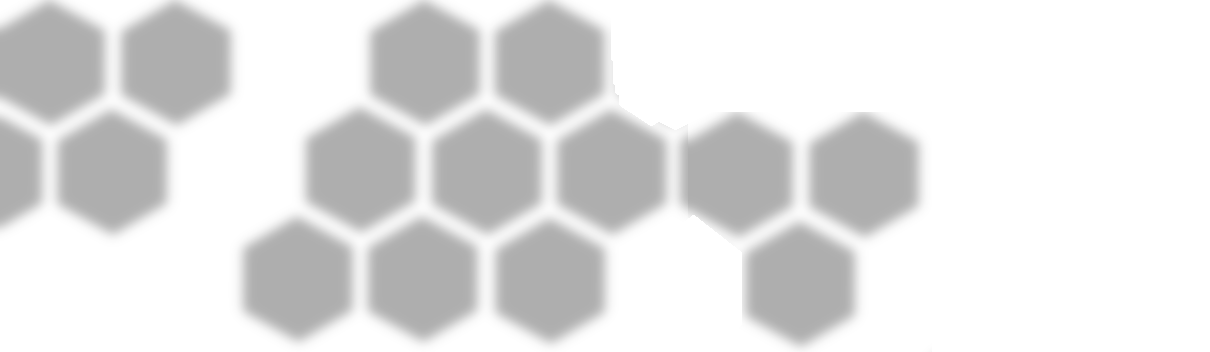
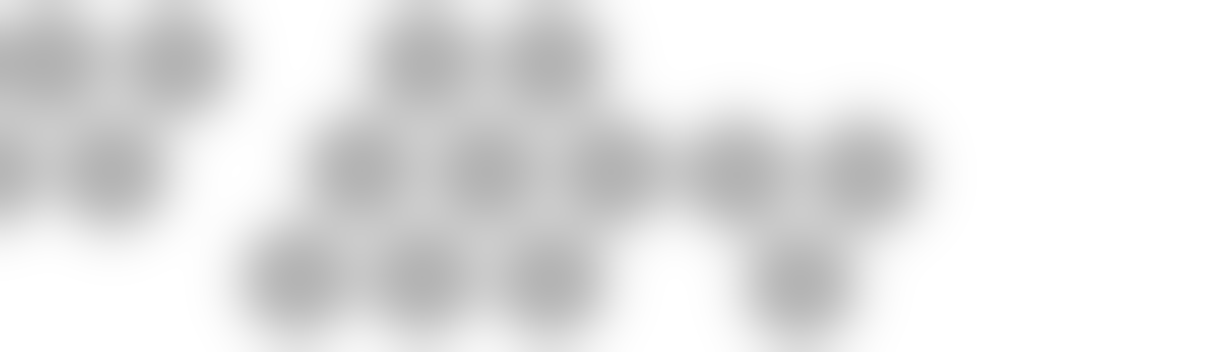
revision of index page

Changed region(s): [[0.1835, 0.0, 0.7645, 1.0], [0.0, 0.0, 0.214, 0.6562]]

diff --git a/index.html b/index.html
@@ -50,13 +50,19 @@
                         <p class="lead mb-5"><br>
                             Methodology is the North Star of my professional journey, illuminating the path as I employ a precise 5-stage approach to craft comprerhensive and pragmatic solutions. This refined methodology empowers me to achieve desired outcomes with speed and finesse, molding even the most intricate concepts, ideas, and technical objectives into scalable, adaptable solutions finely attuned to the unique demands of virtually any industry. My name is Marwan, and welcome to my portfolio.
                            <!--<a href="https://unsplash.com/">Unsplash</a>-->
-                            <!-- <img src="assets/img/5ddiagram.jpg" alt="..."-->
+
+                           <div style="text-align: center;">
+          
+                         </div>
+                        
                                                     </p>
                         <a class="btn btn-dark btn-xl" href="#services">Technical Aptitude</a>
                     </div>
                 </div>
             </div>
         </section>
+        <img width="100%" src="assets/img/5d.png">
+                            
         <section class="programming-languages">
             <!-- Cloud icon and item 1 -->
             <div class="item">
@@ -102,6 +108,9 @@
     
         
             </div>
+
+
+            
         </section>
     
         <!-- Include Font Awesome for cloud icons -->
